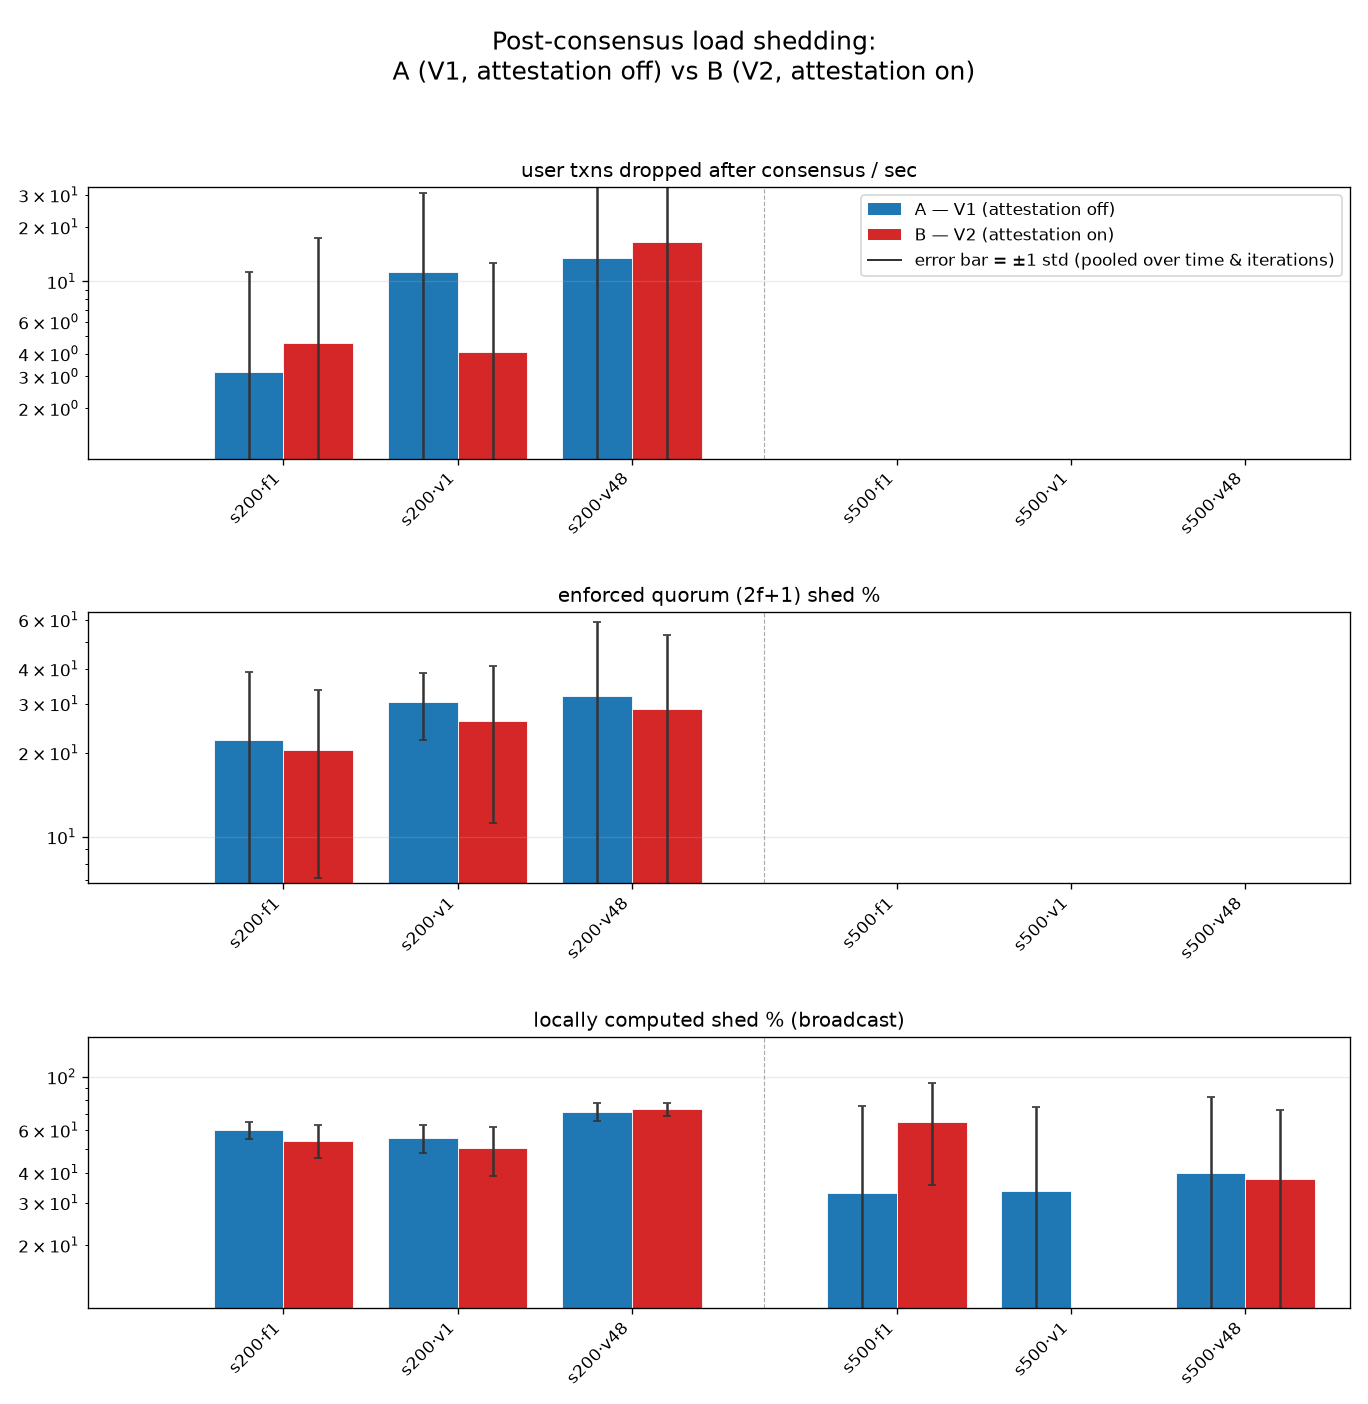
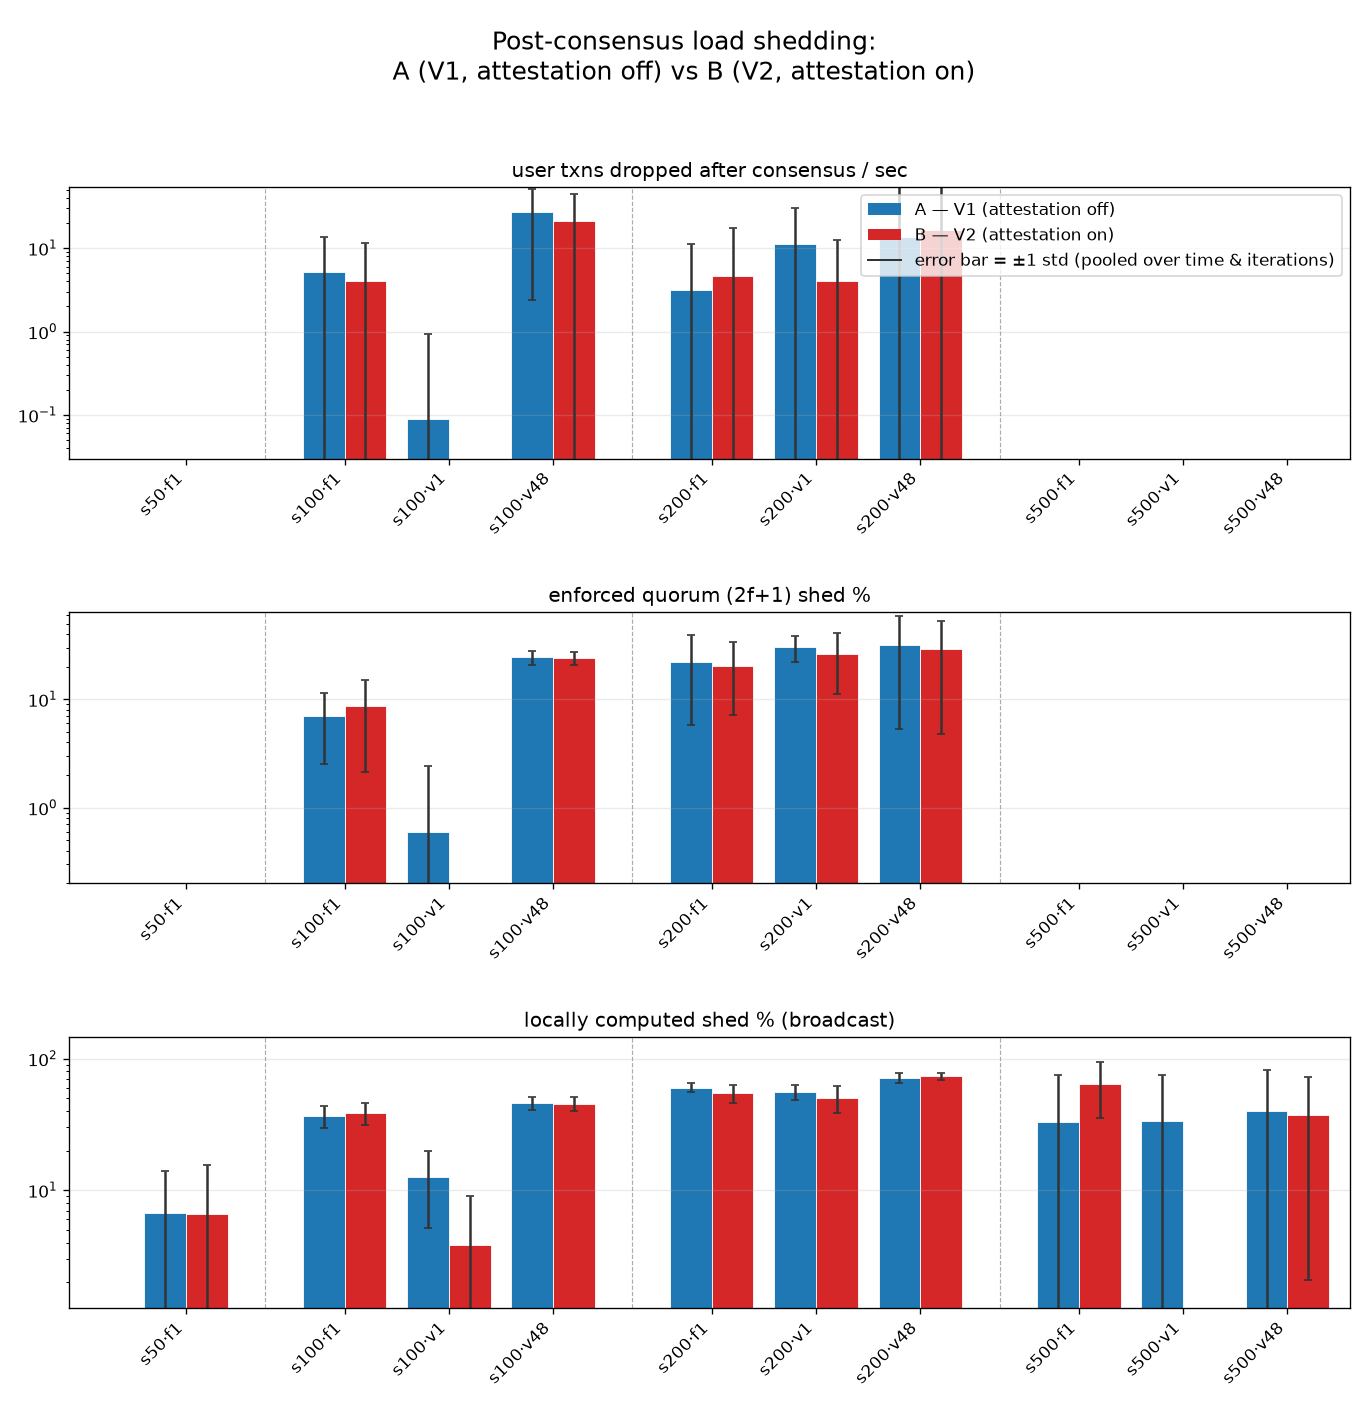
fix: post-consensus load shedding figure for n48

diff --git a/stress-attestation-sequencer/h1/summary_plot.py b/stress-attestation-sequencer/h1/summary_plot.py
@@ -251,6 +251,9 @@ def base_of(metric):
 # default view is qps1000 x {0,100,200,500} x all paths (12 groups instead of
 # 45). Figures that need another slice override:
 #   "slow" / "qps" / "paths" — allow-lists applied to parse_cfg's fields.
+#   "nonzero" — drop configs whose every value is 0/absent for the figure's
+#   metrics (e.g. shedding: most configs never shed and would render as
+#   empty groups).
 # The full 45-config grid stays in summary_table_n<N>.{md,csv}; this trims the
 # FIGURES only.
 DEF_SLOW = (0, 50, 100, 200, 500)
@@ -351,7 +354,7 @@ FIGURES = [
     },
     {
         "file": "load_shedding_post_consensus",
-        "slow": (200, 500),
+        "nonzero": True,
         "title": "Post-consensus load shedding",
         "metrics": [
             "post-cons shed drops / sec",
@@ -412,6 +415,7 @@ def make_figure(
     logy,
     title=None,
     subtitles=None,
+    nonzero=False,
 ):
     """Render one figure (one metric = single axes; several = stacked shared-x
     subplots) to `out`. Returns the output path, or None if no data. `title` is a
@@ -419,6 +423,22 @@ def make_figure(
     optionally overrides individual subplot titles (metric name -> label)."""
     n = len(metrics)
     metric_data = {m: load(csv_path, m) for m in metrics}  # m -> (rows, unit)
+
+    if nonzero:
+        # Keep only configs with signal: any finite non-zero value in any of
+        # the figure's metrics, either version.
+        def has_signal(c):
+            return any(
+                v == v and v != 0
+                for rows, _ in metric_data.values()
+                for ver in ("V1", "V2")
+                for v in (rows.get(c, {}).get(ver, (float("nan"),))[0],)
+            )
+
+        configs = [c for c in configs if has_signal(c)]
+        if not configs:
+            print(f"skip {out}: all values zero for {metrics}", file=sys.stderr)
+            return None
 
     # Figure-wide version slots (shared across subplots -> consistent x-layout).
     versions = select_versions(metric_data, configs, versions_mode)
@@ -578,6 +598,7 @@ def main():
                 args.logy,
                 title=spec.get("title"),
                 subtitles=spec.get("subtitles"),
+                nonzero=spec.get("nonzero", False),
             )
 
 

diff --git a/stress-attestation-sequencer/stress-test.md b/stress-attestation-sequencer/stress-test.md
@@ -122,8 +122,9 @@ attestation on)**; the x-axis is one group per configuration
 (`s<size>·<path>`, `f1` = fullnode, `v1` = pinned to one validator,
 `v4`/`v48` = direct to all validators), with dashed separators between
 computation sizes; the y-axis is log-scaled. To keep the figures readable,
-the shedding figure shows only the heavy sizes (`slow200`/`slow500`) and the
-client-side figures only the fullnode path. The tables and
+the shedding figure shows only the configurations with a non-zero value in
+at least one of its panels, and the client-side figures only the fullnode
+path. The tables and
 `summary_table_n4.md` / `summary_table_n48.md` carry the full 45
 configurations of each campaign.
 
@@ -1420,9 +1421,9 @@ pinned path; B can dominate on the fullnode path. The largest drops land at
 
 ![Post-consensus load shedding, n48](h1/results/summary_plots_n48/load_shedding_post_consensus.png)
 
-*Post-consensus shedding, `n48` campaign. Note the figure's `slow200`/
-`slow500` subset: the largest `n48` drops sit at `slow100` (table above),
-and `slow500` sheds nothing.*
+*Post-consensus shedding, `n48` campaign — drops fire at the moderate
+sizes; at `slow500` the locally computed shed % is high but nothing is
+dropped, because almost nothing is admitted (finding 10).*
 
 </details>
 
